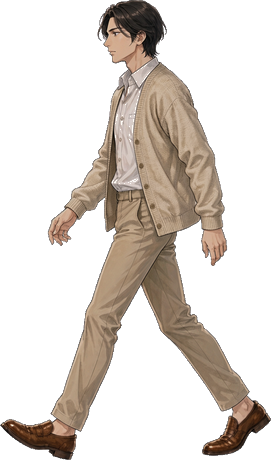
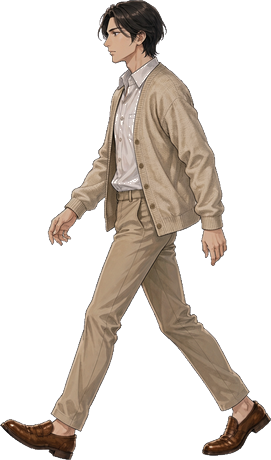
fix: 立绘边缘被压成纯黑（黑边/黑点），重做清理脚本
上一版 clean-sprite.py 的去白做法是反预乘：
    fg = (v - 255*(1-a)) / a
alpha 很低时这个式子会算出很大的负数，截断后就是纯黑；
这些像素又都落在轮廓最外圈，于是整圈变成黑边，细小处就是零散黑点。

实测林知夏立绘边缘亮度 P10 从 60 掉到 0（纯黑），中位从 138 掉到 113。

改法：
- 只在 alpha >= 0.35 时做反预乘，且结果不低于原值的 55%
- 按 alpha 在原值与校正值之间插值，alpha 越低越相信原像素
- 白衬衫回白只在完全不透明的像素上做，避免把边缘提亮成白圈
- 收边由 0.3px 降到 0.2px
- 新增清碎点：面积 < 12px 的孤岛直接抹掉

九张立绘从 PR #17 的版本重新跑了一遍（不是在上次的坏图上二次加工）。
边缘亮度 P10 恢复到 62 / 中位 125，碎块 0。

图片版本串 ?v=12 → ?v=13。

Changed region(s): [[0.3542, 0.0609, 0.3838, 0.0913]]

diff --git a/campus-life/web/bundle.js b/campus-life/web/bundle.js
@@ -2155,7 +2155,7 @@ function walkTexture(id, n, view) {
   // 侧面沿用旧命名；正面 / 背面加 f / b 后缀，各自是独立素材
   const tail = v === 'front' ? '_walk_f' + n : v === 'back' ? '_walk_b' + n : '_walk' + n;
   // 换图后必须带版本串：预览面板会按 URL 缓存旧图，导致「站着是新形象、一走还是旧图」
-  img.src = STANDEE_SRC + id + tail + '.png?v=12';
+  img.src = STANDEE_SRC + id + tail + '.png?v=13';
   return null;
 }
 

diff --git a/campus-life/miniprogram/engine/renderer.js b/campus-life/miniprogram/engine/renderer.js
@@ -209,7 +209,7 @@ function walkTexture(id, n, view) {
   // 侧面沿用旧命名；正面 / 背面加 f / b 后缀，各自是独立素材
   const tail = v === 'front' ? '_walk_f' + n : v === 'back' ? '_walk_b' + n : '_walk' + n;
   // 换图后必须带版本串：预览面板会按 URL 缓存旧图，导致「站着是新形象、一走还是旧图」
-  img.src = STANDEE_SRC + id + tail + '.png?v=12';
+  img.src = STANDEE_SRC + id + tail + '.png?v=13';
   return null;
 }
 

diff --git a/campus-life/web/index.html b/campus-life/web/index.html
@@ -51,6 +51,6 @@
     <button id="exam-button" class="exam-button hidden">期末周已到达 · 进入考试 →</button>
     <div id="modal-mask" class="modal-mask hidden"><div id="modal-content"></div></div>
   </main>
-  <script src="bundle.js?v=b92ad147"></script><script src="app.js?v=b92ad147"></script>
+  <script src="bundle.js?v=084203d8"></script><script src="app.js?v=084203d8"></script>
 </body>
 </html>

diff --git a/campus-life/tools/clean-sprite.py b/campus-life/tools/clean-sprite.py
@@ -1,0 +1,106 @@
+# -*- coding: utf-8 -*-
+"""立绘后期清理：去白边 + 还原白衬衫 + 清碎点。
+
+背景：素材是白底生成的，抗锯齿边缘的 RGB 混了白色，直接放到草地上会有一圈浅灰描边；
+另外早前做明度统一时把白衬衫也压暗了（阴影处发灰发黑）。
+
+处理顺序：
+1) 边缘去白：按 alpha 反预乘把混进去的白色扣掉。
+   **只在 alpha 足够高时做，并且给结果设下限** —— alpha 很低时 (v-(1-a)*255)/a 会变成负数，
+   截断后就是一圈纯黑边（上一版正是栽在这里，边缘亮度 P10 直接掉到 0）。
+2) 边缘收 0.2px，压掉残留的浅色描边。
+3) 白衬衫回白：只对腰部以上、低饱和、够亮的像素往白里提，暖色开衫不动；
+   只在完全不透明的像素上做，避免把边缘提亮成白圈。
+4) 清碎点：面积小于 12 像素的孤岛直接抹掉。
+
+用法：python clean-sprite.py a.png b.png ...（原地修改）
+"""
+import sys
+from collections import deque
+
+from PIL import Image
+
+MIN_BLOB = 12          # 小于这个面积的不透明块视为噪点
+EDGE_FLOOR = 0.55      # 反预乘结果不低于原值的这个比例，防止压成黑色
+
+
+def clean(path, shirt=True):
+    im = Image.open(path).convert('RGBA')
+    w, h = im.size
+    src = im.copy().load()
+    px = im.load()
+
+    for y in range(h):
+        for x in range(w):
+            r, g, b, a = src[x, y]
+            if a == 0:
+                continue
+
+            # ---- 1) 边缘去白（低 alpha 不动，且设下限）----
+            if a < 255:
+                af = a / 255.0
+                if af >= 0.35:
+                    t = min(1.0, (af - 0.35) / 0.45)   # alpha 越低越相信原像素
+                    out = []
+                    for v in (r, g, b):
+                        fg = (v - 255.0 * (1 - af)) / af
+                        fg = max(v * EDGE_FLOOR, min(255.0, fg))
+                        out.append(v * (1 - t) + fg * t)
+                    r, g, b = out
+                # ---- 2) 收边 ----
+                a = max(0, min(255, int((a - 20) * 255 / 235)))
+                if a == 0:
+                    px[x, y] = (0, 0, 0, 0)
+                    continue
+
+            # ---- 3) 白衬衫回白（只在不透明像素上）----
+            if shirt and a >= 250 and 0.16 * h < y < 0.60 * h:
+                mx, mn = max(r, g, b), min(r, g, b)
+                sat = mx - mn
+                if sat <= 30 and mx > 140:
+                    k = min(1.0, (30 - sat) / 30.0)
+                    depth = min(1.0, (mx - 140) / 115.0)
+                    weight = k * depth * 0.55
+                    r = r + (255 - r) * weight
+                    g = g + (255 - g) * weight
+                    b = b + (255 - b) * weight
+
+            px[x, y] = (int(r), int(g), int(b), int(a))
+
+    # ---- 4) 清碎点 ----
+    seen = [[False] * w for _ in range(h)]
+    blobs = []
+    for y in range(h):
+        for x in range(w):
+            if seen[y][x] or px[x, y][3] == 0:
+                continue
+            q = deque([(x, y)])
+            seen[y][x] = True
+            cells = []
+            while q:
+                cx, cy = q.popleft()
+                cells.append((cx, cy))
+                for dx, dy in ((1, 0), (-1, 0), (0, 1), (0, -1)):
+                    nx, ny = cx + dx, cy + dy
+                    if 0 <= nx < w and 0 <= ny < h and not seen[ny][nx] and px[nx, ny][3] > 0:
+                        seen[ny][nx] = True
+                        q.append((nx, ny))
+            blobs.append(cells)
+
+    removed = 0
+    if blobs:
+        biggest = max(len(c) for c in blobs)
+        for cells in blobs:
+            if len(cells) < MIN_BLOB and len(cells) < biggest * 0.02:
+                for cx, cy in cells:
+                    px[cx, cy] = (0, 0, 0, 0)
+                removed += 1
+
+    im.save(path)
+    return w, h, removed
+
+
+if __name__ == '__main__':
+    for p in sys.argv[1:]:
+        w, h, rm = clean(p)
+        print(f'{p}  {w}x{h}  清掉碎点 {rm} 处')
